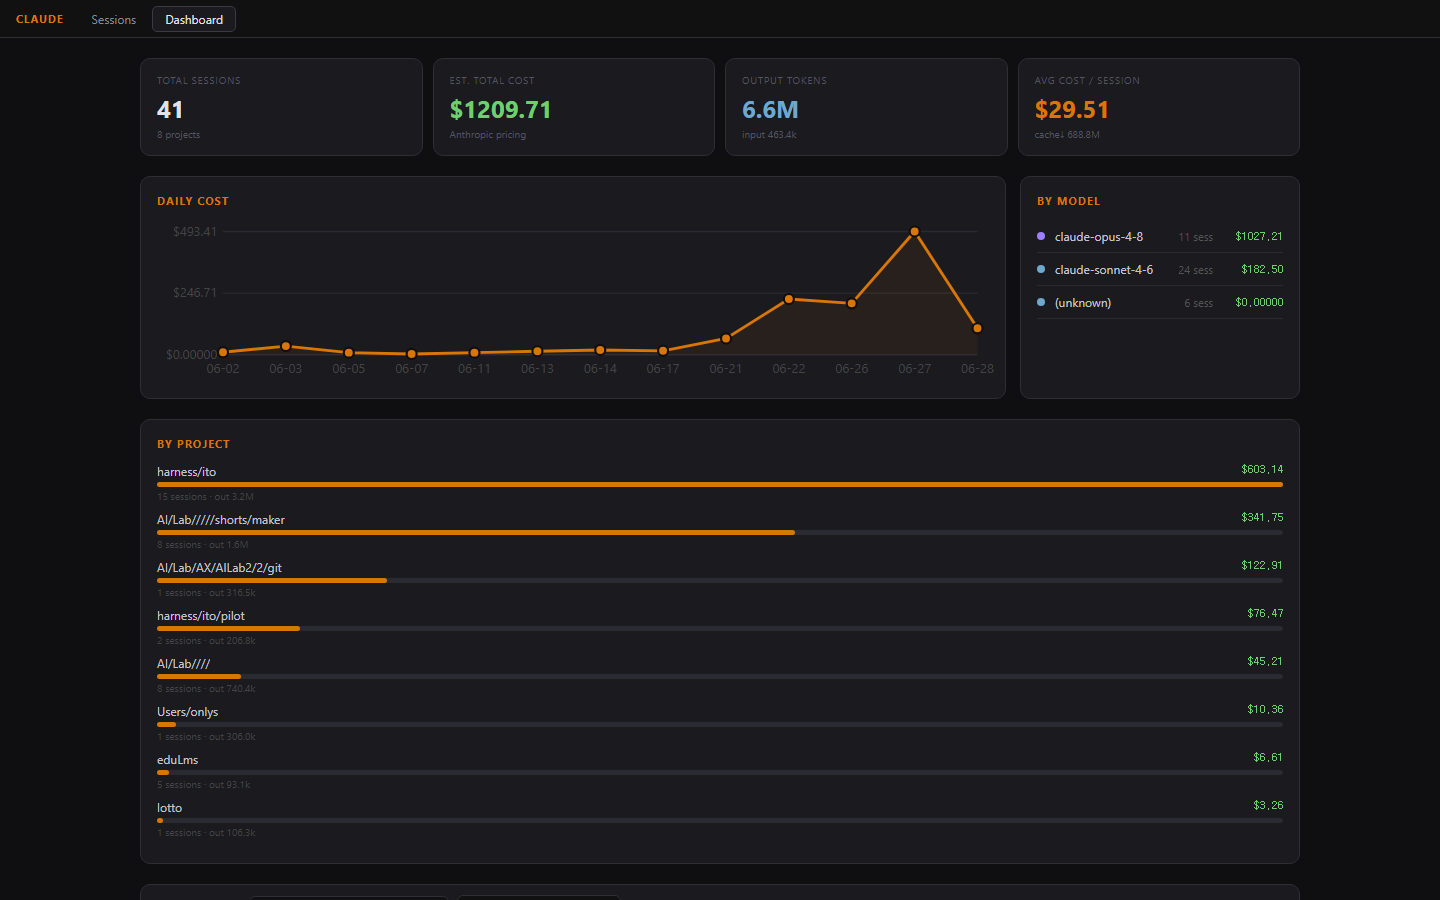
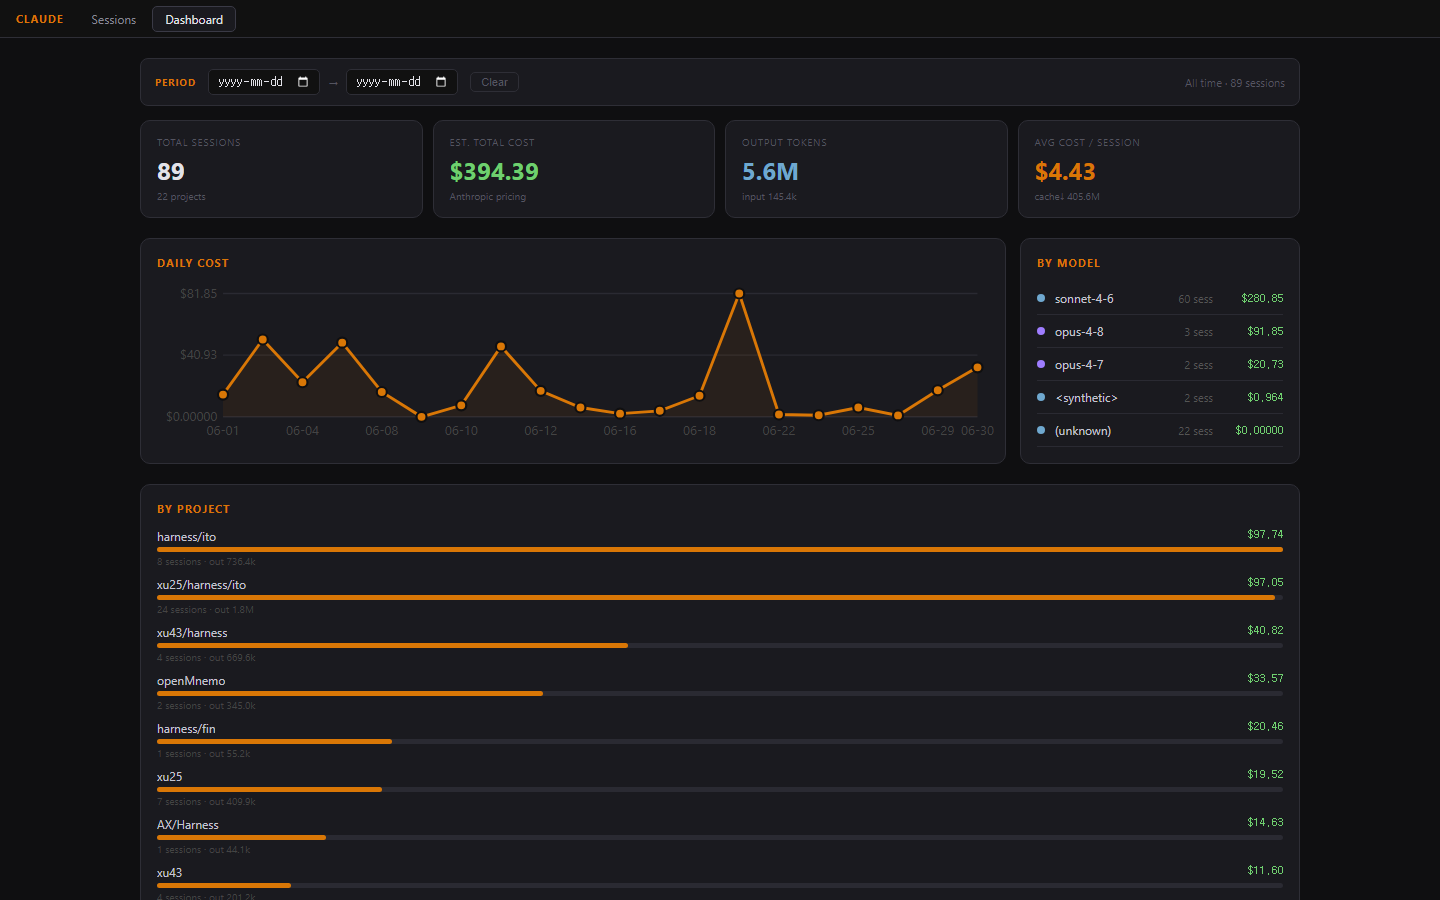
Update README and screenshots to reflect new features

diff --git a/README.md b/README.md
@@ -1,12 +1,17 @@
 # claude-session-viewer
 
-Local web viewer for **Claude Code** session history.
+Local web viewer for **Claude Code** session history — browse conversations, track token usage, analyze costs.
 
-- Browse all sessions across projects
-- View full conversation history
-- Token usage per session and per message
-- Cost estimation dashboard (by model: sonnet / opus / haiku)
-- Daily cost chart, per-session cost table, project & model breakdown
+## Features
+
+- **Session list** — project tree, search by title/content, date range filter, newest/oldest sort toggle
+- **Cost display** — estimated cost per session shown inline in the list
+- **Conversation view** — full message history with token counts; Tools ON/OFF reveals tool calls (with inputs) and tool results
+- **Dashboard** — date range filter updates all charts and stats in real time
+  - Daily cost line chart, by-model breakdown, by-project bars
+  - Sortable per-session cost table
+- **Static export** — generate a standalone HTML file with no server required (`npm run static`)
+- **KST timezone** — dates displayed in local time
 
 ## Requirements
 
@@ -21,14 +26,23 @@ Local web viewer for **Claude Code** session history.
 npx github:Malburi/claude-session-viewer
 ```
 
-### Run without installing (클론방식)
+### Clone and run
 
 ```bash
 git clone https://github.com/Malburi/claude-session-viewer.git
 cd claude-session-viewer
-npm install
-node session-viewer.js   # 또는 npm start
+npm start
 ```
+
+Then open **http://localhost:3000** in your browser.
+
+### Static mode (no server)
+
+```bash
+npm run static
+```
+
+Generates a self-contained HTML file with all session data embedded and opens it directly in the browser. No server process runs.
 
 ### Install globally
 
@@ -37,13 +51,12 @@ npm install -g github:Malburi/claude-session-viewer
 claude-session-viewer
 ```
 
-Then open **http://localhost:3000** in your browser.
-
 ## Options
 
 ```
 --port <n>   Use a different port (default: 3000)
 --no-open    Don't auto-open the browser
+--static     Generate standalone HTML file and exit
 ```
 
 ## Pages
@@ -55,10 +68,10 @@ Then open **http://localhost:3000** in your browser.
 
 ## Screenshots
 
-**Sessions** — project tree, search, token chips per message
+**Sessions** — project tree, date filter, cost per session, sort toggle, tool content
 
 ![Sessions](screenshots/sessions.png)
 
-**Dashboard** — stat cards, daily cost chart, project breakdown, per-session cost table
+**Dashboard** — period filter, stat cards, daily cost chart, model & project breakdown
 
 ![Dashboard](screenshots/dashboard.png)